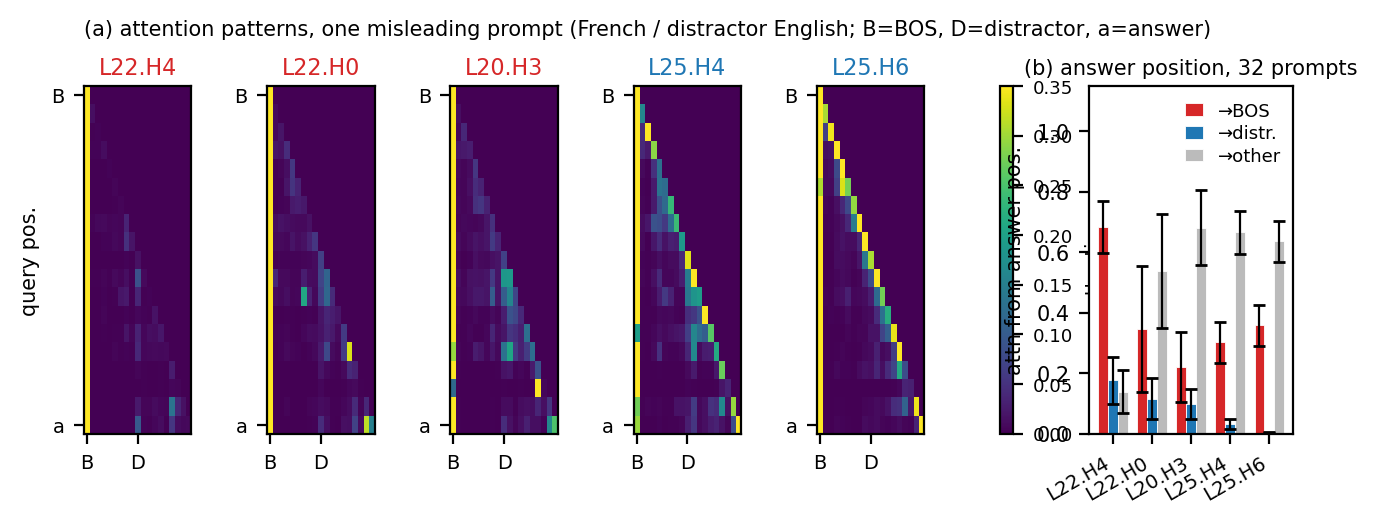
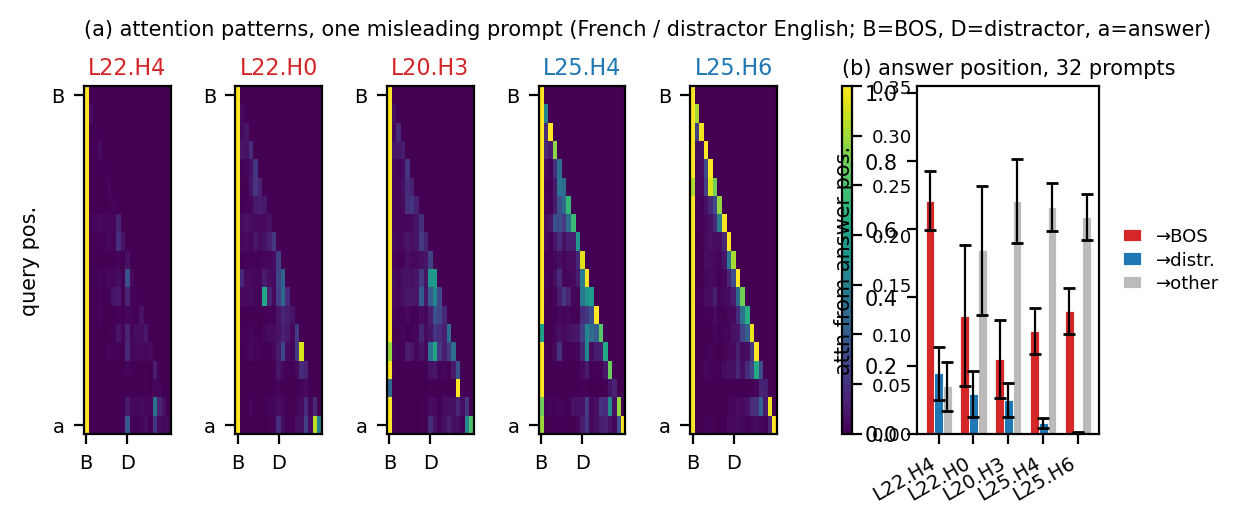
fig3: legend moved outside axes, full width readable

diff --git a/scripts/make_fig3_v2.py b/scripts/make_fig3_v2.py
@@ -31,8 +31,8 @@ plt.rcParams.update({"figure.dpi": 200, "font.size": 8, "axes.labelsize": 8,
                      "axes.titlesize": 8})
 
 fig = plt.figure(figsize=(7.16, 2.45))
-gs = fig.add_gridspec(1, 8, width_ratios=[1, 1, 1, 1, 1, 0.12, 1.9, 0.5],
-                      wspace=0.75, left=0.045, right=0.98, top=0.86, bottom=0.15)
+gs = fig.add_gridspec(1, 8, width_ratios=[1, 1, 1, 1, 1, 0.12, 2.1, 0.75],
+                      wspace=0.75, left=0.045, right=0.845, top=0.86, bottom=0.15)
 
 # ---- (a) matrices
 ex = D["example"]
@@ -72,9 +72,9 @@ axb.set_xticks(x)
 axb.set_xticklabels(HEADS, fontsize=7, rotation=30, ha="right")
 axb.set_ylabel("attn from answer pos.", fontsize=7.5)
 axb.set_title(f"(b) answer position, {N} prompts", fontsize=7.5, pad=4)
-axb.legend(fontsize=6.5, frameon=False, loc="upper right",
-           bbox_to_anchor=(1.02, 1.0), handlelength=1.0, labelspacing=0.25)
-axb.set_ylim(0, 1.15)
+axb.legend(fontsize=6.5, frameon=False, loc="center left",
+           bbox_to_anchor=(1.04, 0.5), handlelength=1.0, labelspacing=0.3)
+axb.set_ylim(0, 1.02)
 
 fig.text(0.045, 0.955, "(a) attention patterns, one misleading prompt "
           f"({ex['true']} / distractor {ex['distractor']}; B=BOS, D=distractor, a=answer)",
